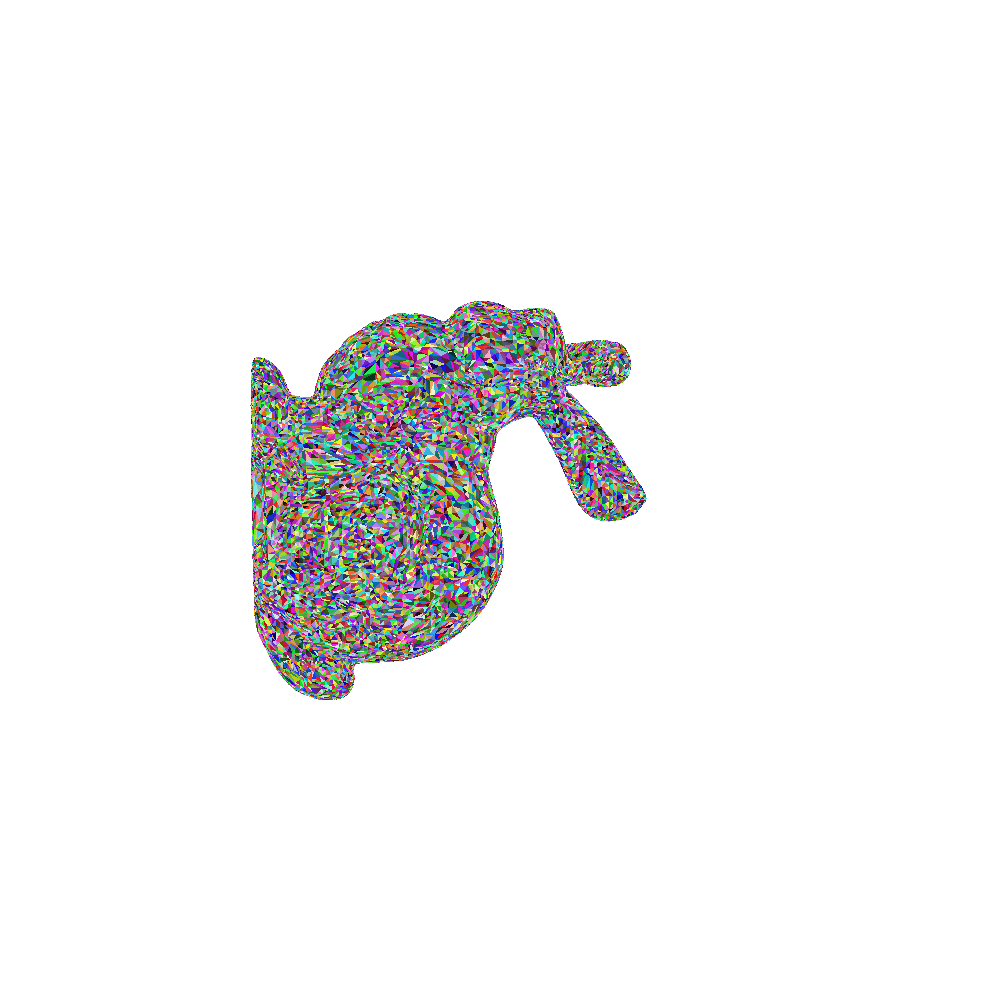
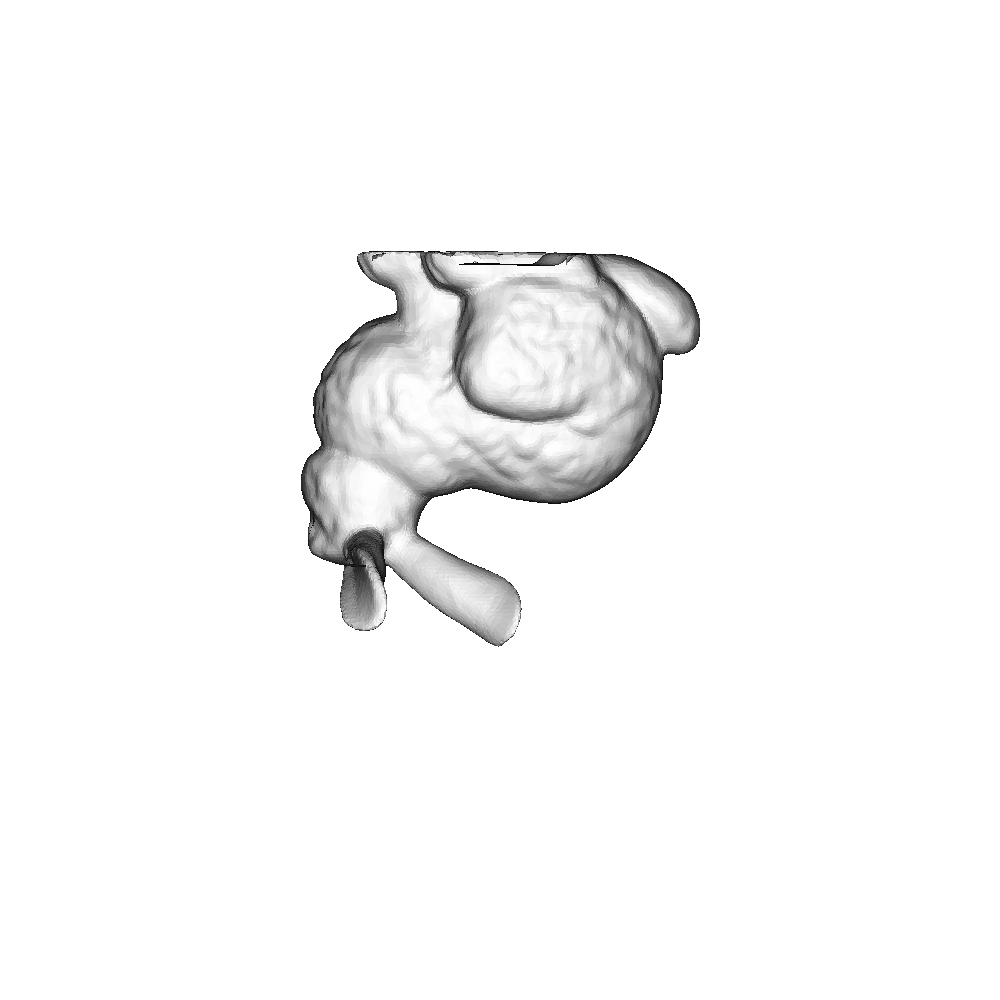
lab2

Changed region(s): [[0.248, 0.248, 0.713, 0.713]]

diff --git a/LR2/task_5(part 2).py b/LR2/task_5(part 2).py
@@ -2,6 +2,12 @@ import numpy as np
 import math
 import random
 from PIL import Image
+
+WIDTH = 1000
+HEIGHT = 1000
+Z_BUFFER = np.zeros((WIDTH, HEIGHT), dtype=np.float32)
+Z_BUFFER[...] = np.inf
+
 def f_fromFile(path:str):
     List = []
     with open(path, 'r', encoding='utf-8') as file:
@@ -23,23 +29,31 @@ def bar_coord(x, y, x0, y0, x1, y1, x2, y2)->tuple:
     lambda1 = ((x0 - x2) * (y - y2) - (x - x2) * (y0 - y2)) /  ((x0 - x2) * (y1 - y2) - (x1 - x2) * (y0 - y2))
     lambda2 = 1.0 - lambda0 - lambda1 
     return (lambda0, lambda1, lambda2)
-def draw_triangle(mat, x0, y0, x1, y1, x2, y2, color):
+def draw_triangle(mat, x0, y0, z0, x1, y1, z1, x2, y2, z2, color):
     xmin = math.floor(min(x0, x1, x2))
     ymin = math.floor(min(y0, y1, y2))
     xmax = math.ceil(max(x0, x1, x2))
     ymax = math.ceil(max(y0, y1, y2))
     if (xmin < 0): xmin = 0
     if (ymin < 0): ymin = 0
-    if(xmax > 1000): xmax = 1000
-    if(ymax > 1000): ymax = 1000
+    if(xmax > 1000): xmax = WIDTH
+    if(ymax > 1000): ymax = HEIGHT
     for x in range(xmin, xmax):
         for y in range(ymin, ymax):
             coords = bar_coord(x, y, x0, y0, x1, y1, x2, y2)
             if(coords[0] >=0 and coords[1] >= 0 and coords[2] >= 0):
-                mat[x, y] = color
+                z_= coords[0]*z0 + coords[1]*z1 + coords[2]*z2
+                if(z_ < Z_BUFFER[y, x]):
+                    Z_BUFFER[y, x] = z_
+                    mat[y, x] = color
+
 def normal(x0, y0, z0, x1, y1, z1, x2, y2, z2):
-    n = [x1 - x2, y1 - y2, z1 - z2] * [x1 - x0, y1 - y0, z1 - z0]
+    n = np.cross(np.array([x1 - x2, y1 - y2, z1 - z2]), np.array([x1 - x0, y1 - y0, z1 - z0]))
     return n
+def cosa(n:np.array):
+    l = np.array([0,0,1])
+    cosa = np.dot(n, l)/ (math.sqrt(n[0]**2 + n[1]**2 + n[2]**2))
+    return cosa
 def create_image(H, W, filename, v, f):
     image_array = np.zeros((H, W, 3), dtype=np.uint8)
     image_array[:H, :W] = 255
@@ -47,15 +61,20 @@ def create_image(H, W, filename, v, f):
     for fi in range(len(f)):
         x0 = v[f[fi][0] - 1][0]*scaled_time + 500
         y0 = v[f[fi][0] - 1][1]*scaled_time + 250
+        z0 = v[f[fi][0] - 1][2]*scaled_time
         x1 = v[f[fi][1] - 1][0]*scaled_time + 500
         y1 = v[f[fi][1] - 1][1]*scaled_time + 250
+        z1 = v[f[fi][1] - 1][2]*scaled_time
         x2 = v[f[fi][2] - 1][0]*scaled_time + 500
         y2 = v[f[fi][2] - 1][1]*scaled_time + 250
-        draw_triangle(image_array, x0, y0, x1, y1, x2, y2, [random.randint(0, 255), random.randint(0, 255), random.randint(0, 255)])
+        z2 = v[f[fi][2] - 1][2]*scaled_time
+        cosA = cosa(normal(x0, y0, z0, x1, y1, z1, x2, y2, z2))
+        if(cosA < 0):
+            draw_triangle(image_array, x0, y0, z0, x1, y1, z1, x2, y2, z2, -cosA*255)
     image = Image.fromarray(image_array, mode="RGB")
     image.save(filename)
 
 
 f = f_fromFile("model_1.obj")
 v = v_fromFile("model_1.obj")
-create_image(1000, 1000, 'image.png', v, f)
+create_image(WIDTH, HEIGHT, 'image_z_buffer.png', v, f)

diff --git a/LR2/task_4(part 2).py b/LR2/task_4(part 2).py
@@ -36,10 +36,15 @@ def draw_triangle(mat, x0, y0, x1, y1, x2, y2, color):
         for y in range(ymin, ymax):
             coords = bar_coord(x, y, x0, y0, x1, y1, x2, y2)
             if(coords[0] >=0 and coords[1] >= 0 and coords[2] >= 0):
-                mat[x, y] = color
+                mat[y, x] = color
+
 def normal(x0, y0, z0, x1, y1, z1, x2, y2, z2):
-    n = [x1 - x2, y1 - y2, z1 - z2] * [x1 - x0, y1 - y0, z1 - z0]
+    n = np.cross(np.array([x1 - x2, y1 - y2, z1 - z2]), np.array([x1 - x0, y1 - y0, z1 - z0]))
     return n
+def cosa(n:np.array):
+    l = np.array([0,0,1])
+    cosa = np.dot(n, l)/ (math.sqrt(n[0]**2 + n[1]**2 + n[2]**2))
+    return cosa
 def create_image(H, W, filename, v, f):
     image_array = np.zeros((H, W, 3), dtype=np.uint8)
     image_array[:H, :W] = 255
@@ -47,11 +52,16 @@ def create_image(H, W, filename, v, f):
     for fi in range(len(f)):
         x0 = v[f[fi][0] - 1][0]*scaled_time + 500
         y0 = v[f[fi][0] - 1][1]*scaled_time + 250
+        z0 = v[f[fi][0] - 1][2]*scaled_time
         x1 = v[f[fi][1] - 1][0]*scaled_time + 500
         y1 = v[f[fi][1] - 1][1]*scaled_time + 250
+        z1 = v[f[fi][1] - 1][2]*scaled_time
         x2 = v[f[fi][2] - 1][0]*scaled_time + 500
         y2 = v[f[fi][2] - 1][1]*scaled_time + 250
-        draw_triangle(image_array, x0, y0, x1, y1, x2, y2, [random.randint(0, 255), random.randint(0, 255), random.randint(0, 255)])
+        z2 = v[f[fi][2] - 1][2]*scaled_time
+        cosA = cosa(normal(x0, y0, z0, x1, y1, z1, x2, y2, z2))
+        if(cosA < 0):
+            draw_triangle(image_array, x0, y0, x1, y1, x2, y2, -cosA*255)
     image = Image.fromarray(image_array, mode="RGB")
     image.save(filename)
 
